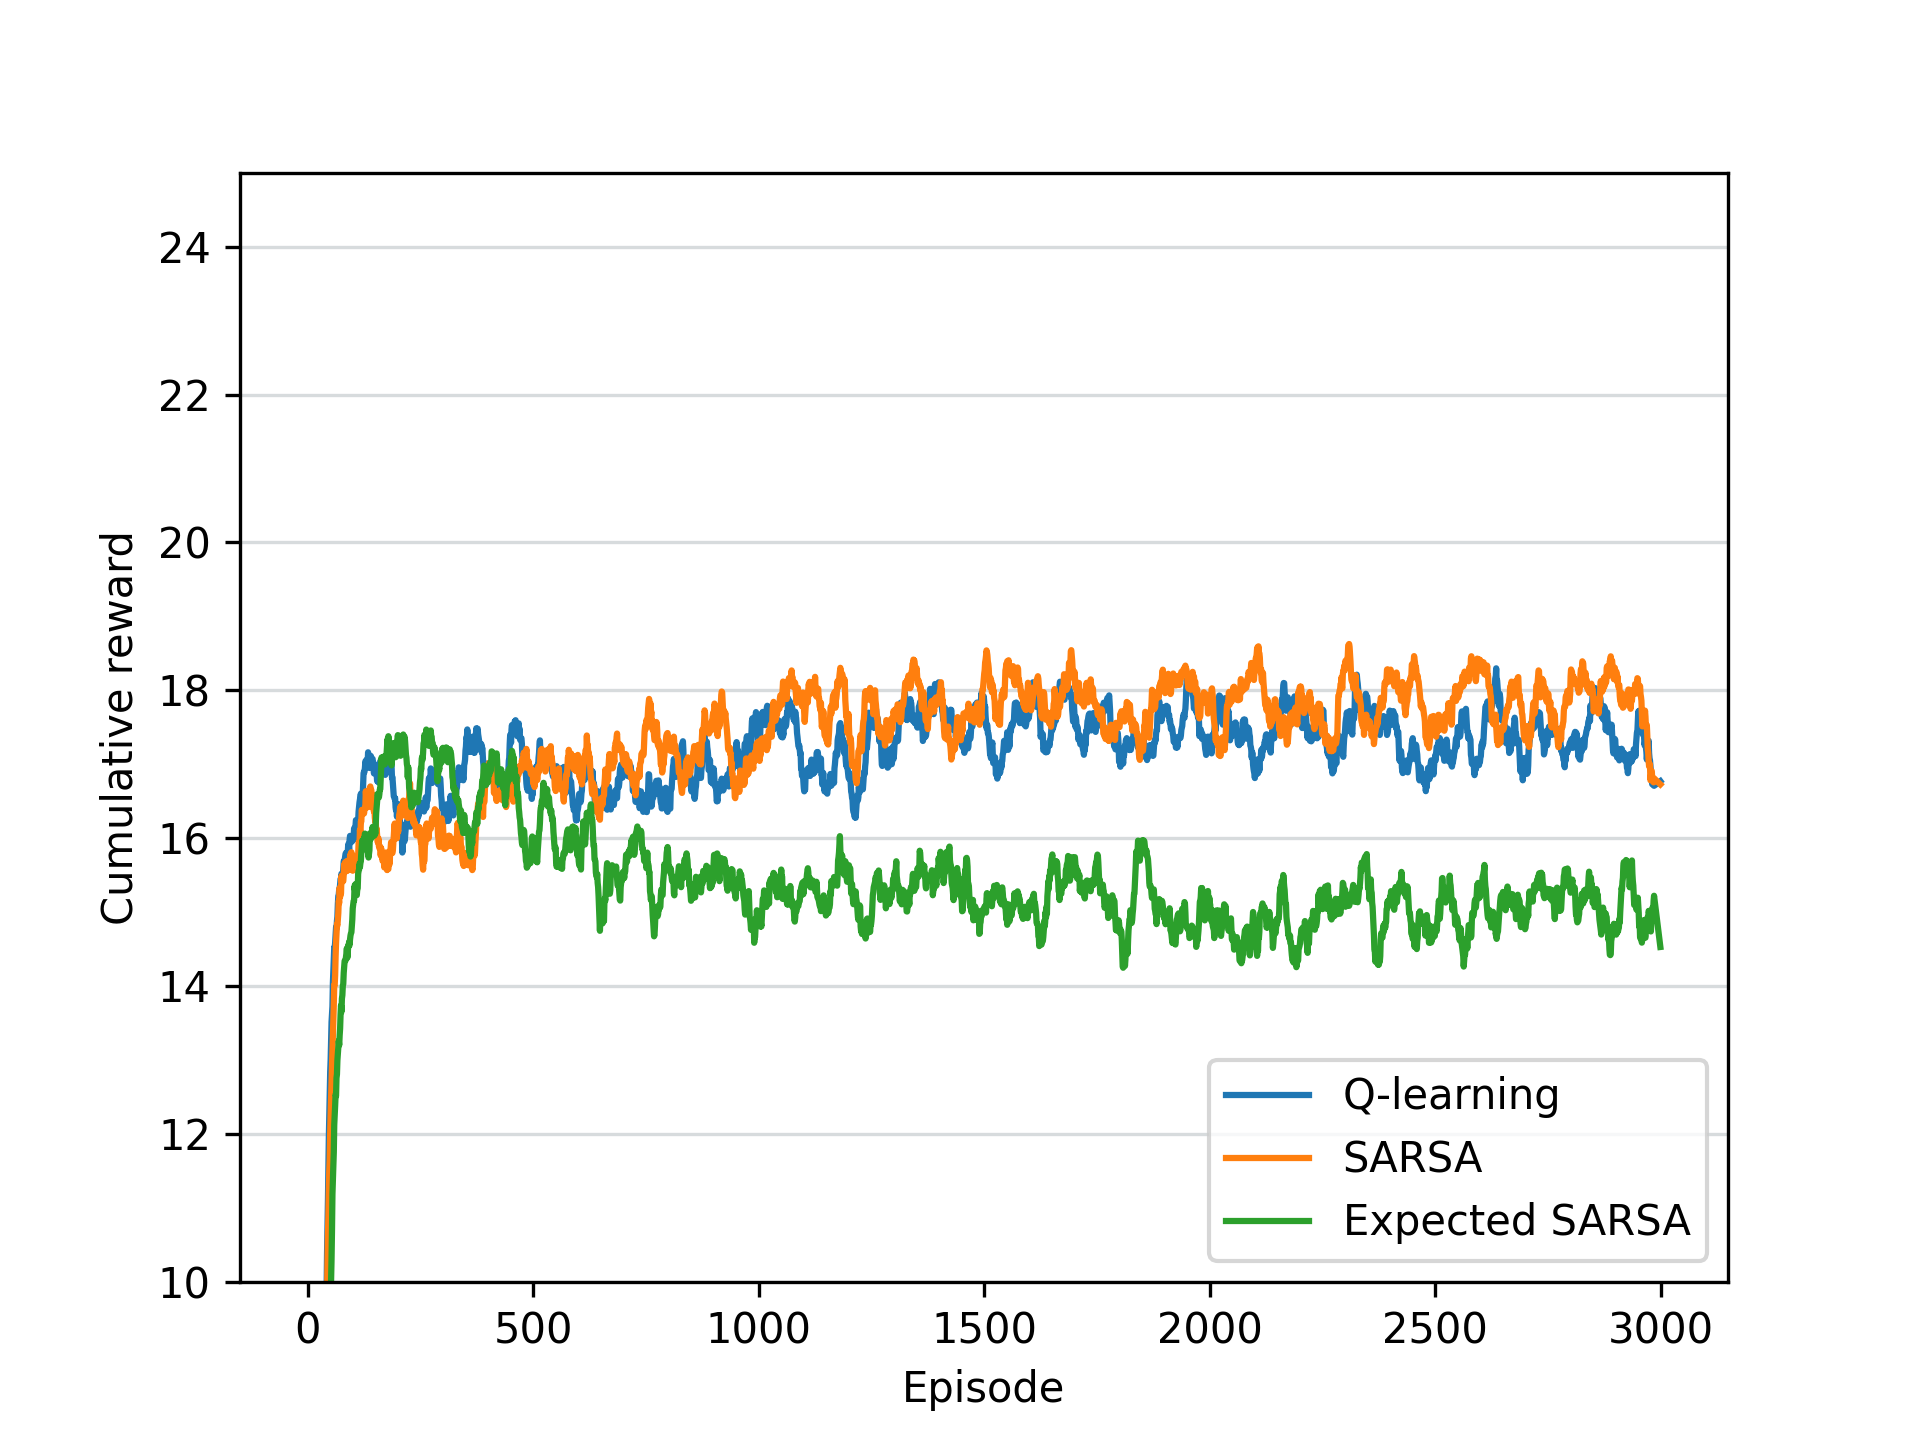
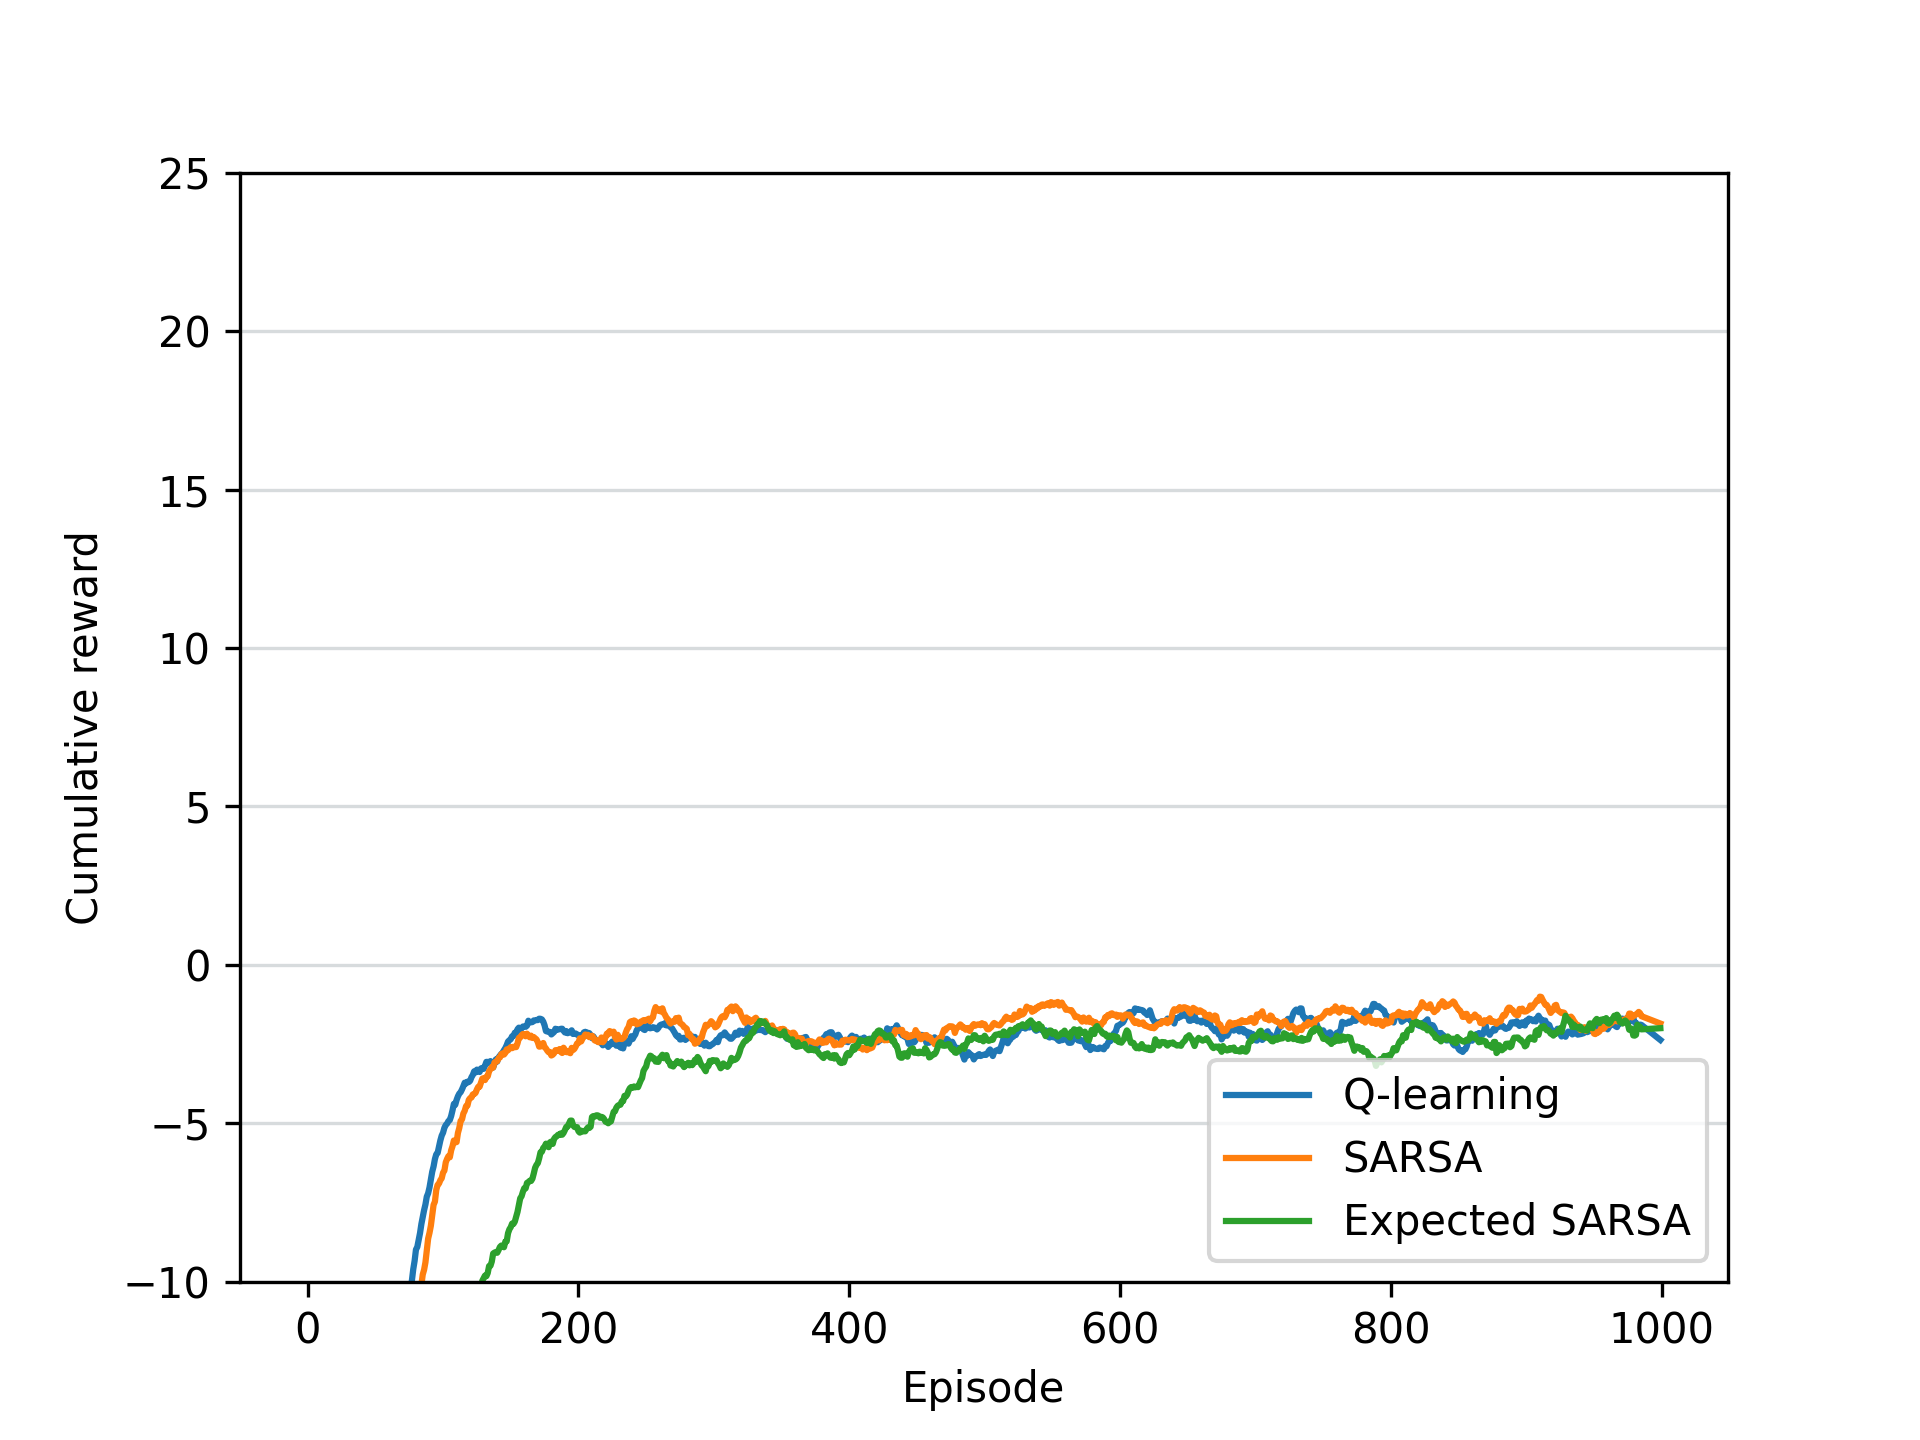
interesting

diff --git a/Environment.py b/Environment.py
@@ -58,7 +58,7 @@ class TomAndJerryEnvironment:
 
         self.rewards = {
             'cat': -15,
-            'step': -1,
+            'step': -6,
             'goal': 30,
         }
 
@@ -247,7 +247,7 @@ def test():
     s = env.reset()
     Q_sa = np.zeros((env.n_states,env.n_actions)) # Q-value array of flat zeros
 
-    agent = ExpectedSARSAAgent(n_actions=env.action_size(), n_states=env.state_size(), epsilon=0.01)
+    agent = QLearningAgent(n_actions=env.action_size(), n_states=env.state_size(), epsilon=0.01)
     agent.load()
     done = False
 

diff --git a/Helper.py b/Helper.py
@@ -20,7 +20,7 @@ class LearningCurvePlot:
         self.fig,self.ax = plt.subplots()
         self.ax.set_xlabel('Episode')
         self.ax.set_ylabel('Cumulative reward')      
-        self.ax.set_ylim([10, 25])
+        self.ax.set_ylim([-10, 25])
         self.ax.grid(axis="y", color = "#D7DBDD")
         if title is not None:
             self.ax.set_title(title)

diff --git a/Experiments.py b/Experiments.py
@@ -148,7 +148,7 @@ def main():
     #varying_alpha_plot(agent_type = 'SARSA')
     #varying_alpha_plot(agent_type = 'Expected SARSA')
     
-    optimal_agents_plot(n_episodes = 3000)
+    optimal_agents_plot(n_episodes = 1000)
 
 
 if __name__ == '__main__':
